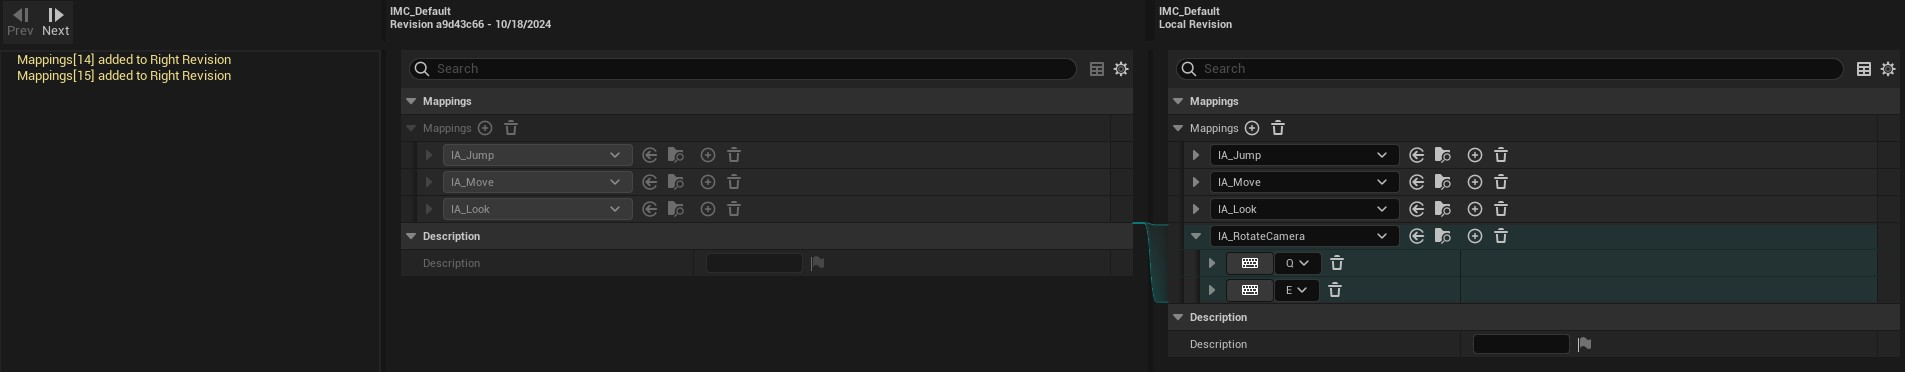
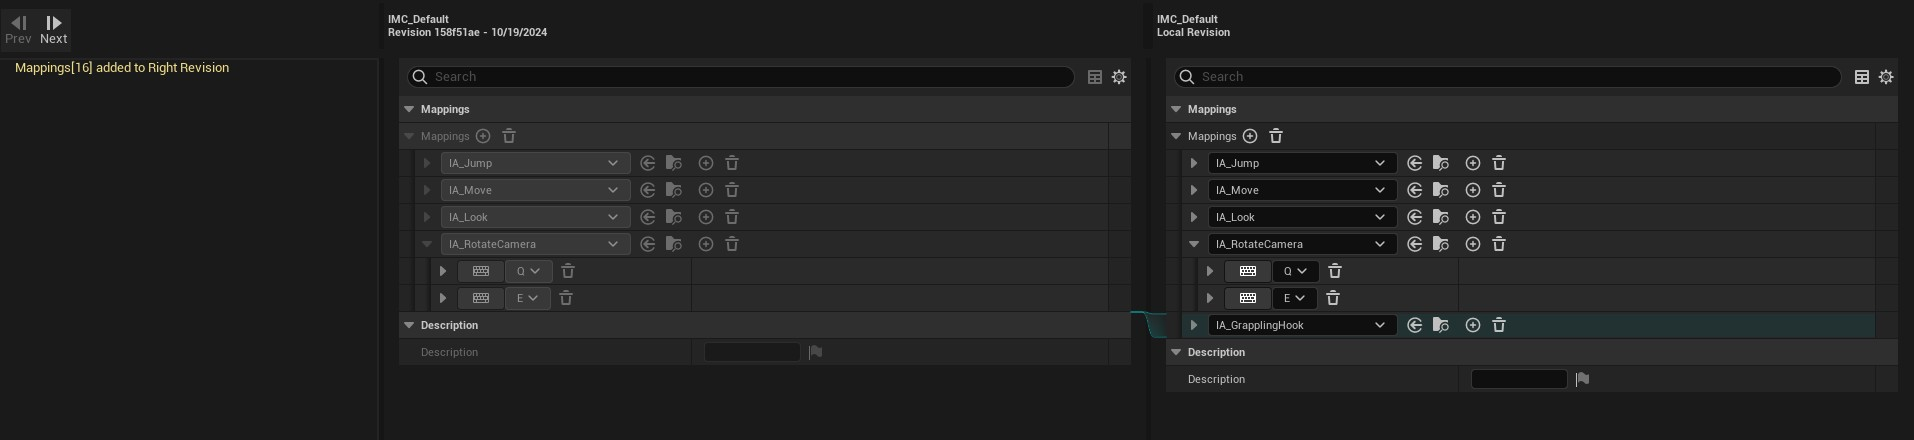
[Add] Hook Input Action

diff --git a/GameJamPlus2024/Source/GameJamPlus2024/Private/PaperCharacterBase.cpp b/GameJamPlus2024/Source/GameJamPlus2024/Private/PaperCharacterBase.cpp
@@ -40,6 +40,9 @@ void APaperCharacterBase::SetupPlayerInputComponent(class UInputComponent* Playe
 		//Jump
 		EnhancedInputComponent->BindAction(JumpAction, ETriggerEvent::Started, this, &ACharacter::Jump);
 		EnhancedInputComponent->BindAction(JumpAction, ETriggerEvent::Completed, this, &ACharacter::StopJumping);
+
+		// Grappling Hook
+		EnhancedInputComponent->BindAction(GrapplingHookAction, ETriggerEvent::Triggered, GrapplingHookComponent, &UGrapplingHookComponent::LaunchHook);
 	}
 	else
 	{

diff --git a/GameJamPlus2024/Source/GameJamPlus2024/Public/PaperCharacterBase.h b/GameJamPlus2024/Source/GameJamPlus2024/Public/PaperCharacterBase.h
@@ -37,6 +37,9 @@ class GAMEJAMPLUS2024_API APaperCharacterBase : public APaperCharacter
 	UPROPERTY(EditAnywhere, BlueprintReadWrite, Category = "Animation", meta = (AllowPrivateAccess = "true"))
 	TMap<FString, UPaperFlipbook*> Animations;
 
+	UPROPERTY(EditAnywhere, BlueprintReadWrite, Category = "Input", meta = (AllowPrivateAccess = "true"))
+	UInputAction* GrapplingHookAction;
+
 public:
 	APaperCharacterBase();
 

diff --git a/GameJamPlus2024/Source/GameJamPlus2024/Public/Upgrades/GrapplingHookComponent.h b/GameJamPlus2024/Source/GameJamPlus2024/Public/Upgrades/GrapplingHookComponent.h
@@ -4,6 +4,7 @@
 
 #include "CoreMinimal.h"
 #include "CharacterUpgrade.h"
+#include "InputAction.h"
 #include "GrapplingHookComponent.generated.h"
 
 /**
@@ -13,5 +14,8 @@ UCLASS()
 class GAMEJAMPLUS2024_API UGrapplingHookComponent : public UCharacterUpgrade
 {
 	GENERATED_BODY()
+
+public:
+	void LaunchHook();
 	
 };

diff --git a/GameJamPlus2024/Source/GameJamPlus2024/Private/Upgrades/GrapplingHookComponent.cpp b/GameJamPlus2024/Source/GameJamPlus2024/Private/Upgrades/GrapplingHookComponent.cpp
@@ -3,3 +3,7 @@
 
 #include "Upgrades/GrapplingHookComponent.h"
 
+void UGrapplingHookComponent::LaunchHook()
+{
+	UE_LOG(LogTemp, Warning, TEXT("Hook Launched!"));
+}
